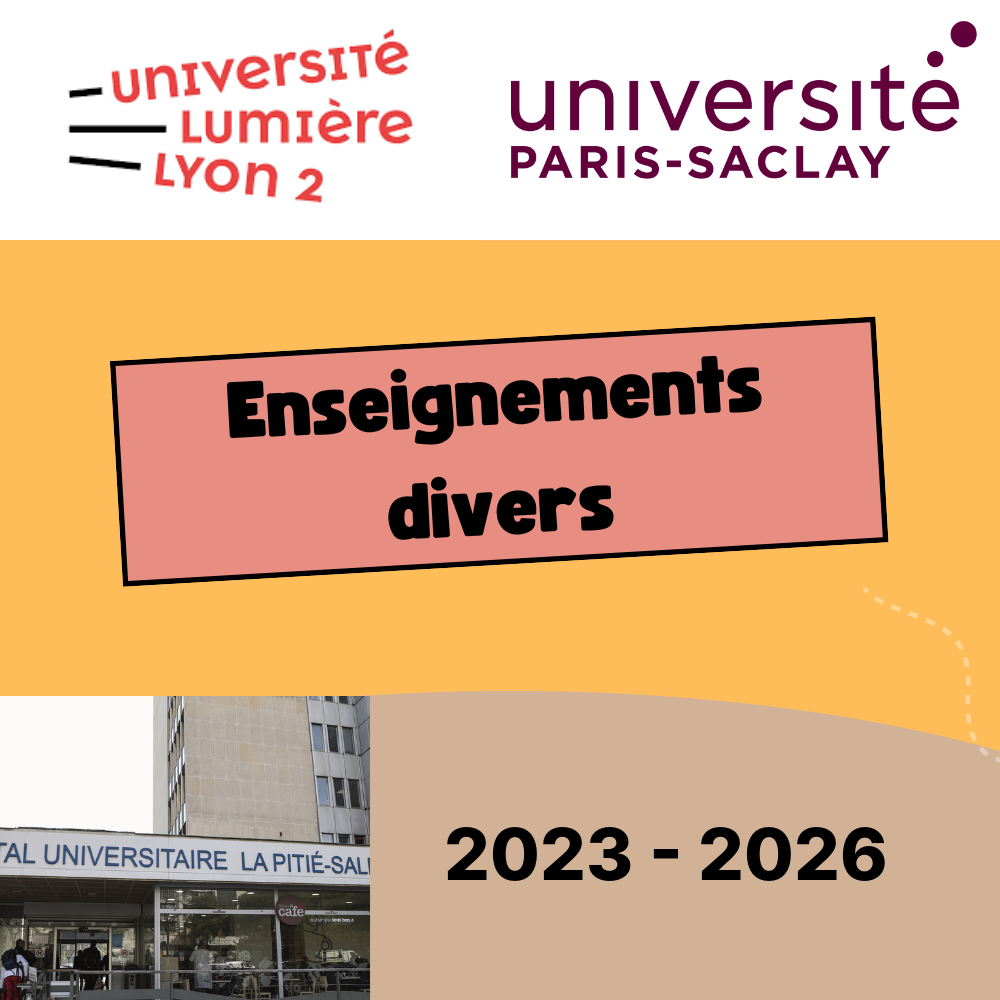
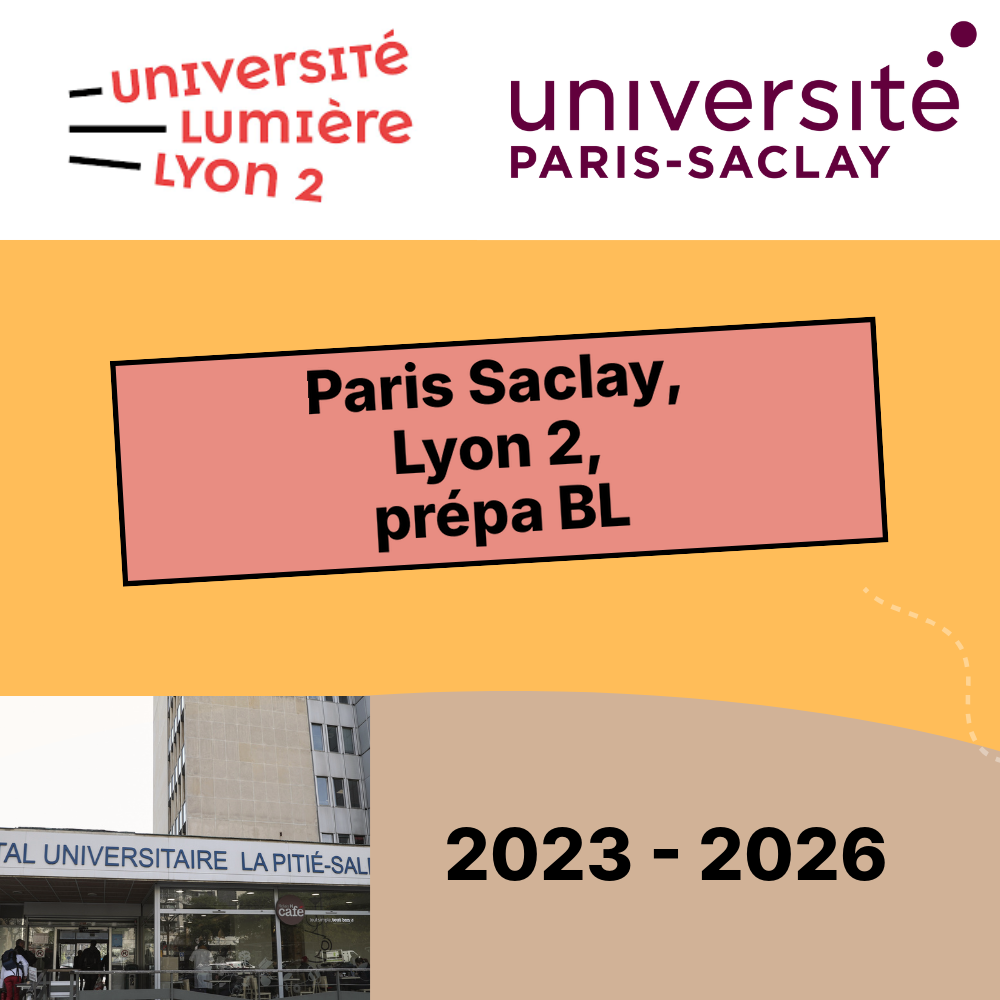
Portfolio : première tuile renommée « Paris Saclay, Lyon 2, prépa BL »
Claude-Session: https://claude.ai/code/session_018JBiWHJUYQcyEJXuNrBVYL

Changed region(s): [[0.217, 0.341, 0.775, 0.558]]

diff --git a/_pages/teaching-various.html b/_pages/teaching-various.html
@@ -1,6 +1,6 @@
 ---
 layout: archive-teaching
-title: "Enseignements divers"
+title: "Paris Saclay, Lyon 2, prépa BL"
 permalink: /teaching/various
 author_profile: true
 group: "Various"
